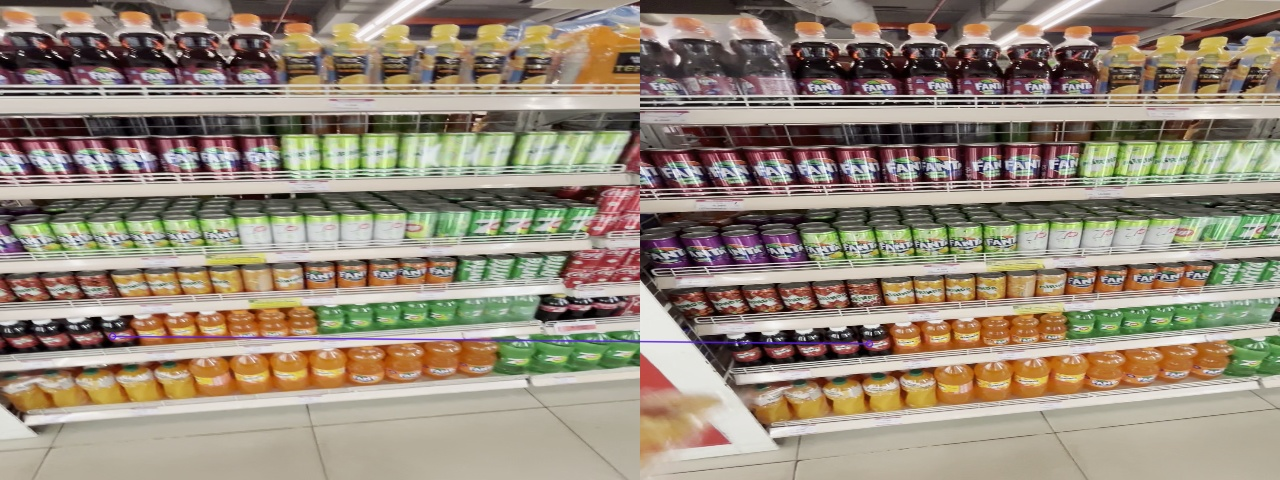
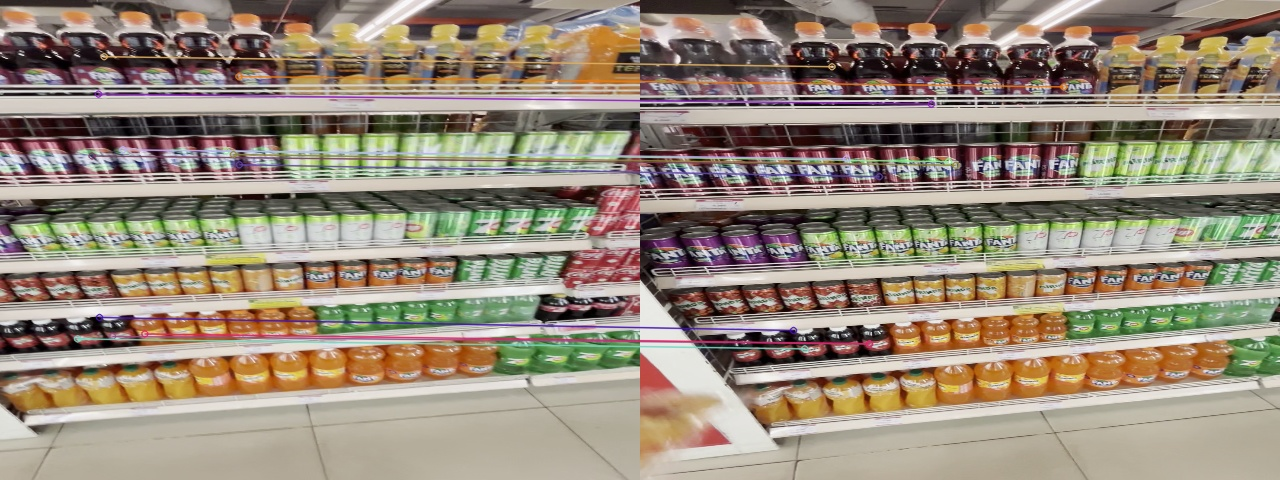
major update

diff --git a/main3.py b/main3.py
@@ -1,4 +1,4 @@
-import argparse, cv2, imutils,os
+import argparse, cv2, imutils,os, random
 from imutils import paths
 from blur_detection import blur_detection
 from find_four_corners import find_four_corners
@@ -7,6 +7,16 @@ import numpy as np
 
 def sort_imgs_str(img_names):
     return sorted(img_names, key=lambda x: int(x.split('.')[0].split('_')[-1]))
+
+def draw_matches(imgA, pntsA, imgB, pntsB, color=(255,0,0), export=False):
+    for i in range(pntsA.shape[0]):
+        color = (random.randint(0, 255), random.randint(0, 255), random.randint(0, 255))
+        imgAA = cv2.circle(imgA, tuple(pntsA[i]), 10, color, -1)
+        imgBB = cv2.circle(imgB, tuple(pntsB[i]), 10, color, -1)
+    if export:
+        cv2.imwrite('data/output/aa.jpg', imgAA)
+        cv2.imwrite('data/output/bb.jpg', imgBB)
+    return imgAA, imgBB
 
 def stitch(images):
     try:
@@ -18,26 +28,26 @@ def stitch(images):
         descriptor = cv2.ORB_create()
         kpsA, featuresA = descriptor.detectAndCompute(trainImg_gray, None)
         kpsB, featuresB = descriptor.detectAndCompute(queryImg_gray, None)
-        # img_kpsA = cv2.drawKeypoints(trainImg_gray, kpsA, None, color=(0,255,0))
-        # img_kpsB = cv2.drawKeypoints(queryImg_gray, kpsB, None, color=(0,255,0))
-        # subplots([img_kpsB, img_kpsA], nc=2, figsize=(10,5), titles=['Query image with keypoints', 'Training image with keypoints'])
+        #img_kpsA = cv2.drawKeypoints(trainImg_gray, kpsA, None, color=(0,255,0))
+        #img_kpsB = cv2.drawKeypoints(queryImg_gray, kpsB, None, color=(0,255,0))
+        #subplots([img_kpsB, img_kpsA], nc=2, figsize=(10,5), titles=['Query image with keypoints', 'Training image with keypoints'])
         bf = cv2.BFMatcher(cv2.NORM_HAMMING)
     
         best_matches = bf.knnMatch (featuresA,featuresB,k=2)
         good_matches = []
         for m1, m2 in best_matches:
-            if m1.distance < 0.4*m2.distance:
+            if m1.distance < 0.6*m2.distance:
                 good_matches.append(m1)
         matches = sorted(good_matches, key=lambda x : x.distance)
-        print(len(matches))
+        #print(len(matches))
         img3 = cv2.drawMatches(trainImg, kpsA, queryImg, kpsB, matches, None, flags = cv2.DrawMatchesFlags_NOT_DRAW_SINGLE_POINTS)
         cv2.imwrite('data/output/draw_match.jpg', img3)
         kpsA = np.float32([kp.pt for kp in kpsA])
         kpsB = np.float32([kp.pt for kp in kpsB])
-        # ptsA = np.float32([kpsA[m.queryIdx] for m in matches])
-        # ptsB = np.float32([kpsB[m.trainIdx] for m in matches])
-        import hickle
-        [ptsA, ptsB] = hickle.load('abc.hkl')
+        ptsA = np.float32([kpsA[m.queryIdx] for m in matches])
+        ptsB = np.float32([kpsB[m.trainIdx] for m in matches])
+       # img1, img2 = draw_matches(queryImg, ptsA, trainImg, ptsB, export=True)
+       
         (H, status) = cv2.findHomography(ptsA, ptsB, cv2.RANSAC,4)
     
         width = trainImg.shape[1] + queryImg.shape[1]
@@ -74,9 +84,9 @@ num_images = 2
 for i in range(0, len(images)-num_images, num_images):
     if i != 2:
         continue
-    frame1_name = os.path.split(imagePaths[i+2])[-1]
+    frame1_name = os.path.split(imagePaths[i])[-1]
     frame1_name = frame1_name.split('.')[0]
-    frame2_name = os.path.split(imagePaths[i])[-1]
+    frame2_name = os.path.split(imagePaths[i+2])[-1]
     frame2_name = frame2_name.split('.')[0]
     subset = images[i:i+num_images]
     stitched = stitch(subset)
